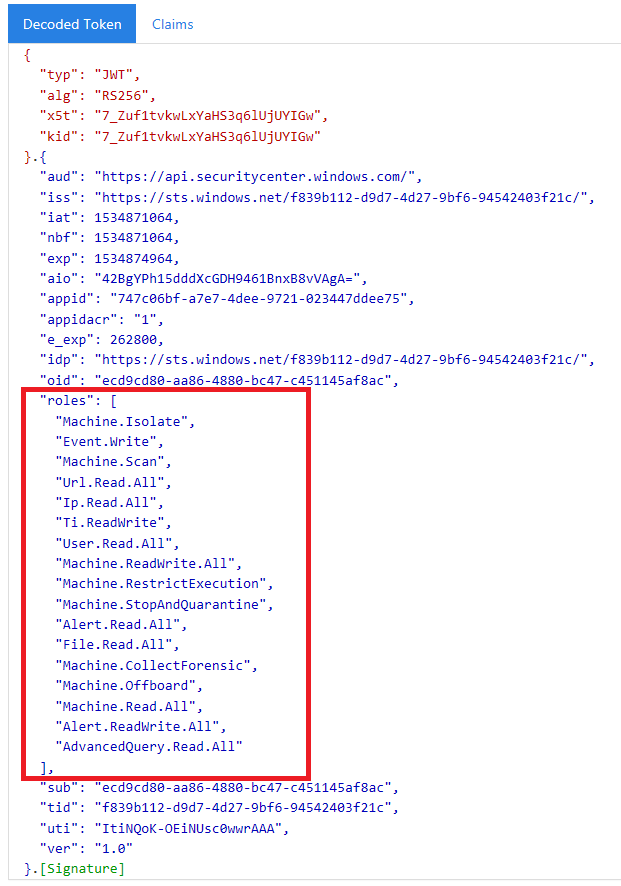
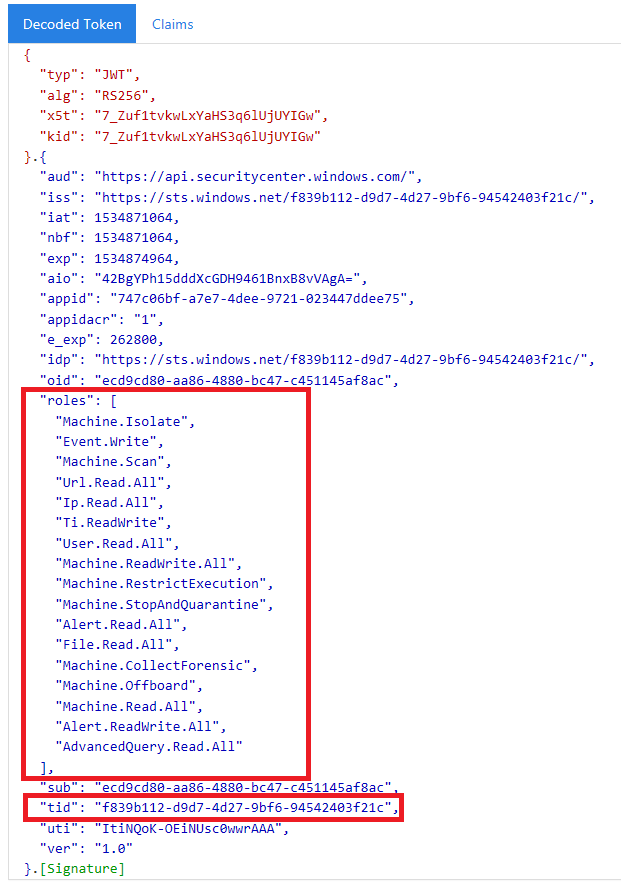
finish

Changed region(s): [[0.0306, 0.8837, 0.6731, 0.9447]]

diff --git a/windows/security/threat-protection/microsoft-defender-atp/exposed-apis-create-app-partners.md b/windows/security/threat-protection/microsoft-defender-atp/exposed-apis-create-app-partners.md
@@ -120,7 +120,9 @@ This page explains how to create an AAD application, get an access token to Micr
 
 ## Get an access token examples:
 
-For more details on AAD token, refer to [AAD tutorial](https://docs.microsoft.com/azure/active-directory/develop/active-directory-v2-protocols-oauth-client-creds)
+**Note:** to get access token on behalf of your customer, use the customer's tenant ID on the following token acquisitions.
+
+<br>For more details on AAD token, refer to [AAD tutorial](https://docs.microsoft.com/azure/active-directory/develop/active-directory-v2-protocols-oauth-client-creds)
 
 ### Using PowerShell
 
@@ -205,7 +207,8 @@ You will get an answer of the form:
 Sanity check to make sure you got a correct token:
 - Copy/paste into [JWT](https://jwt.ms) the token you get in the previous step in order to decode it
 - Validate you get a 'roles' claim with the desired permissions
-- In the screen shot below you can see a decoded token acquired from an Application with permissions to all of Microsoft Defender ATP's roles:
+- In the screen shot below you can see a decoded token acquired from an Application with multiple permissions to Microsoft Defender ATP:
+- The "tid" claim is the tenant ID the token belongs.
 
 ![Image of token validation](images/webapp-decoded-token.png)
 
